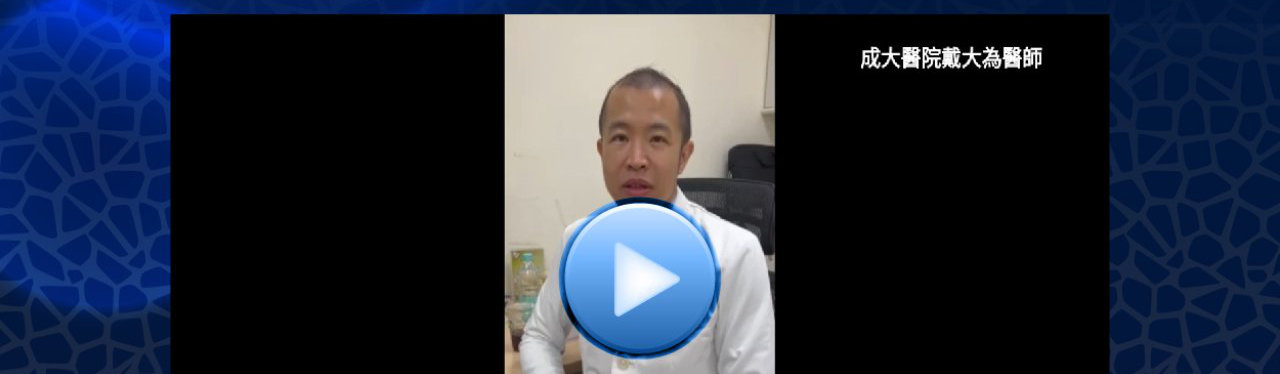
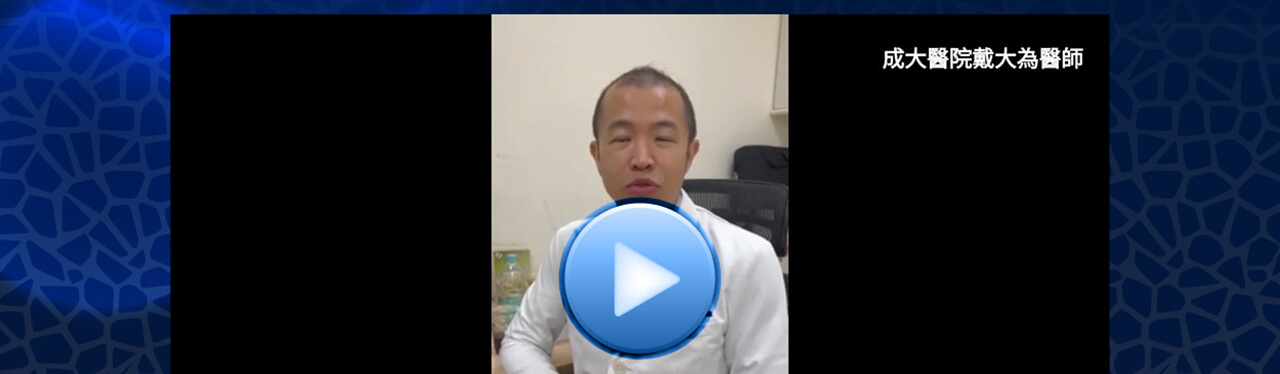
修改EDM#17影片連結和縮圖 #2023-08-08

Changed region(s): [[0.375, 0.0294, 0.625, 1.0], [0.6562, 0.1176, 0.8438, 0.2059], [0.4375, 0.5588, 0.4688, 0.6471]]

diff --git a/EDM-17.html b/EDM-17.html
@@ -46,12 +46,12 @@ img{
             </td>
         </tr>
         <tr>
-            <td><a href="https://youtu.be/t08pSvy_JbI" title="戴大為主任|成大醫院骨科部主治醫師" target="_blank">
+            <td><a href="https://youtu.be/qy8o-7plWAY" title="戴大為主任|成大醫院骨科部主治醫師" target="_blank">
                 <img src="https://www.iprc.com.tw/edm/forteo/images/edm-17_04.jpg" width="640" height="187" alt="影片播放鈕"></a>
             </td>
         </tr>
         <tr>
-            <td><a href="https://youtu.be/t08pSvy_JbI" title="戴大為主任|成大醫院骨科部主治醫師" target="_blank">
+            <td><a href="https://youtu.be/qy8o-7plWAY" title="戴大為主任|成大醫院骨科部主治醫師" target="_blank">
                 <img src="https://www.iprc.com.tw/edm/forteo/images/edm-17_05.jpg" width="640" height="131" alt="CLICK HERE TO WATCH THE VIDEO"></a>
             </td>
         </tr>
